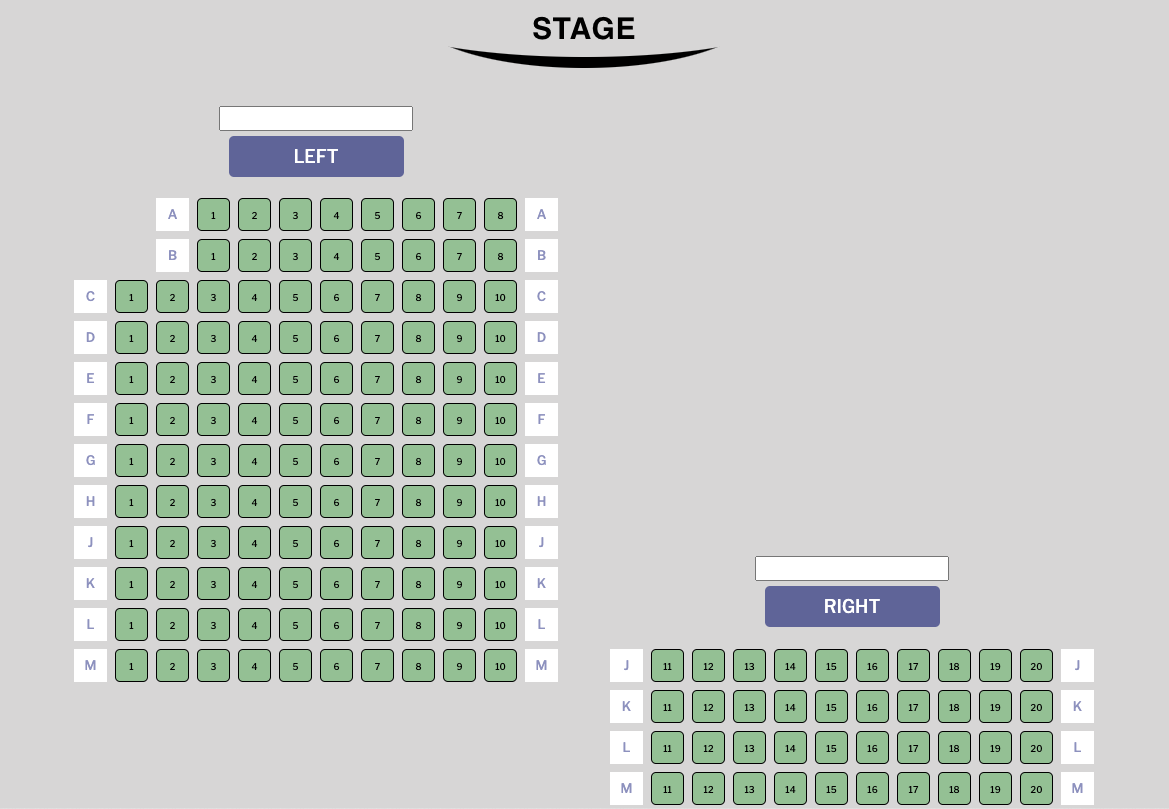
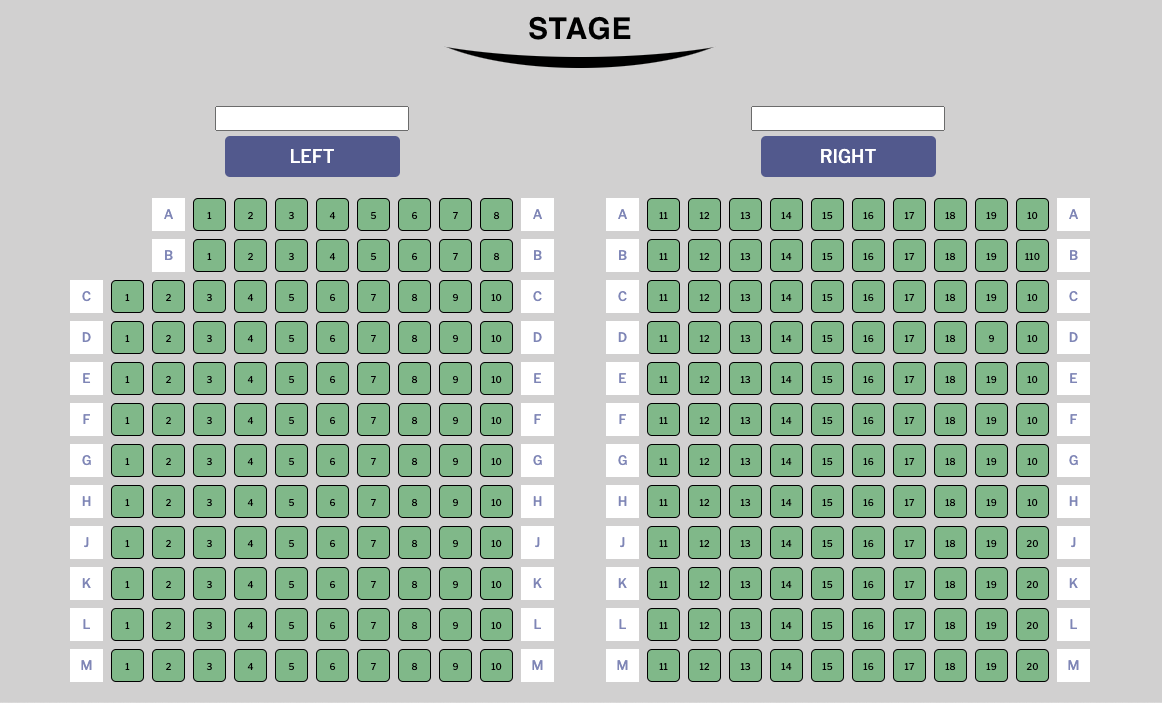
updates

diff --git a/html/62967.html b/html/62967.html
@@ -48,28 +48,48 @@
               </div>
             </td>
             <td>
-              <div
-                align="center"
-                style="position: relative; z-index: 0; top: 450px"
-              >
-                {{{ sectionNames.80081 }}}
+              <div align="center" style="position: relative; z-index: 0">
+                {{{ sectionNames.80082 }}}
               </div>
             </td>
           </tr>
 
           <!-- Seats -->
           <tr>
-            <td>
+            <td valign="top">
               <div align="right" style="position: relative; z-index: 1">
                 {{{ sectionsMarkup.80080 }}}
               </div>
             </td>
-            <td valign="bottom">
-              <div
-                align="left"
-                style="position: relative; z-index: 1; top: 123px"
-              >
-                {{{ sectionsMarkup.80081 }}}
+            <td>
+              <div align="center" style="position: relative">
+                <table
+                  align="center"
+                  border="0"
+                  cellspacing="0"
+                  cellpadding="0"
+                >
+                  <tr>
+                    <td>
+                      <div
+                        align="center"
+                        style="position: relative; z-index: 0"
+                      >
+                        {{{ sectionsMarkup.80082 }}}
+                      </div>
+                    </td>
+                  </tr>
+                  <tr>
+                    <td>
+                      <div
+                        align="center"
+                        style="position: relative; z-index: 0"
+                      >
+                        {{{ sectionsMarkup.80081 }}}
+                      </div>
+                    </td>
+                  </tr>
+                </table>
               </div>
             </td>
           </tr>
